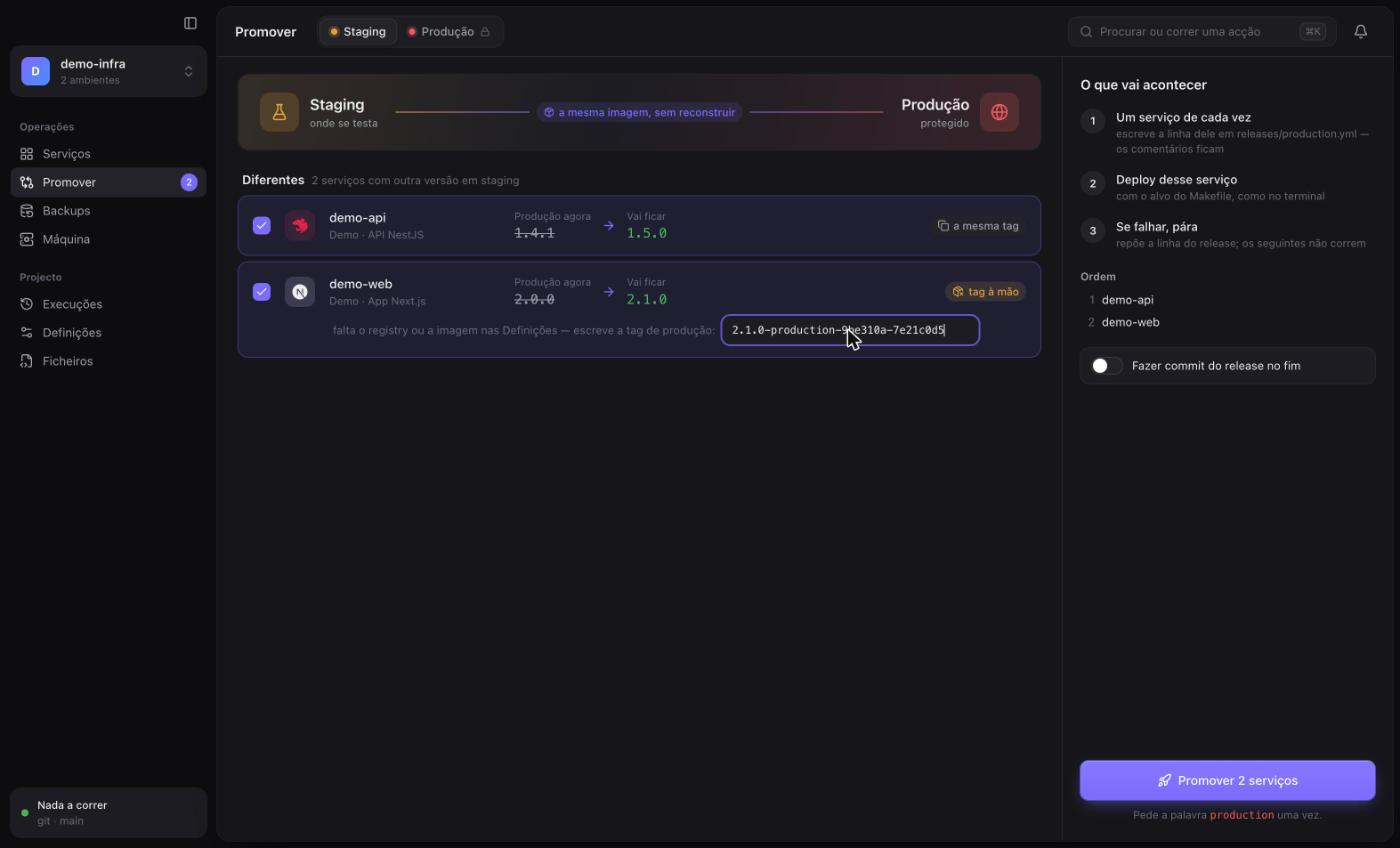
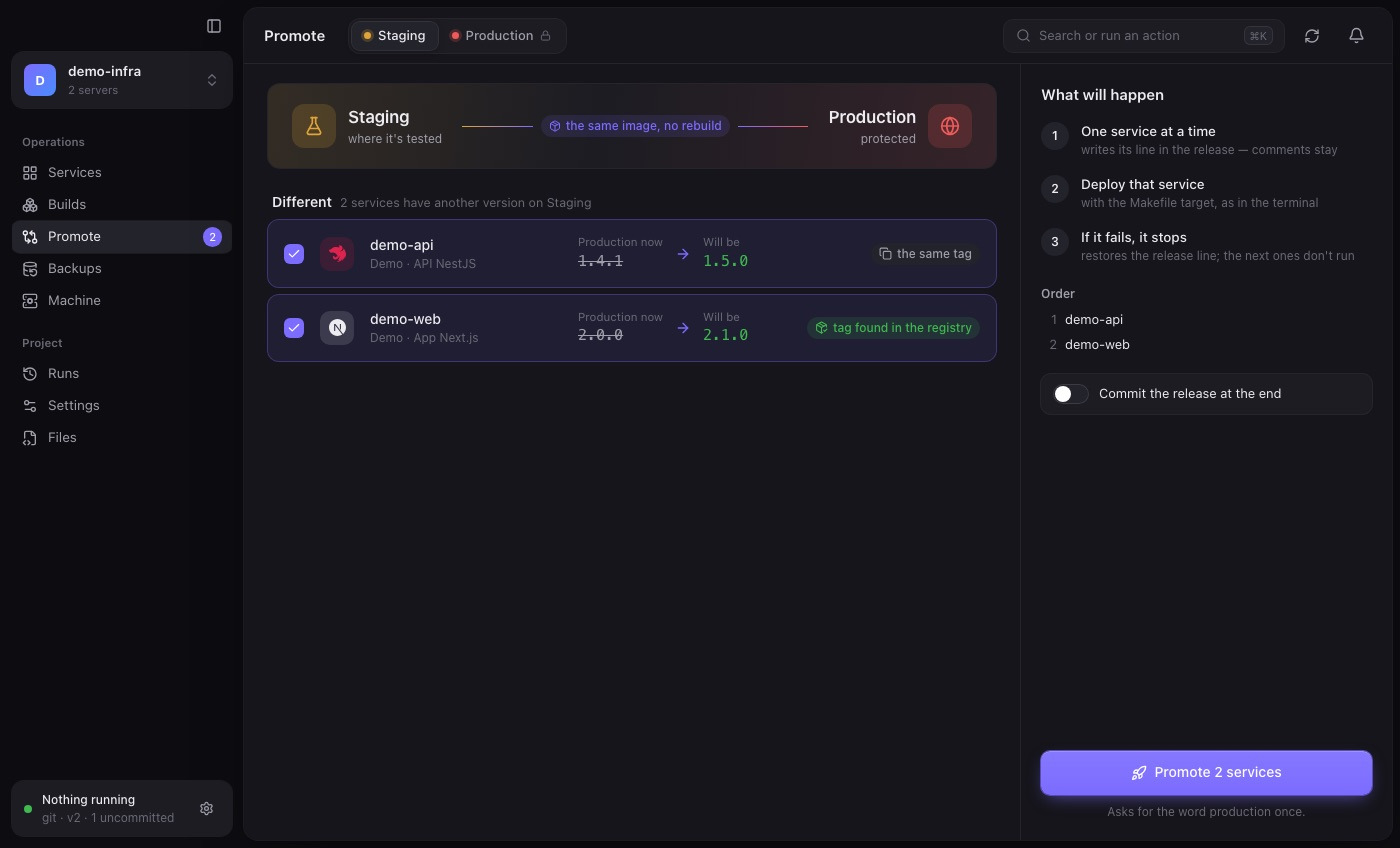
docs: readme for builds, deploy with a version, servers and products, themes and the skill

diff --git a/README.md b/README.md
@@ -5,15 +5,16 @@
 [![macOS](https://img.shields.io/badge/macOS-Apple_Silicon-000000?style=for-the-badge&logo=apple&logoColor=white)](https://github.com/mariocosttaa/ansible-mario/releases) [![Ansible](https://img.shields.io/badge/Ansible-tested_on_core_2.21-EE0000?style=for-the-badge&logo=ansible&logoColor=white)](https://docs.ansible.com) [![Tauri](https://img.shields.io/badge/Tauri-2-24C8DB?style=for-the-badge&logo=tauri&logoColor=white)](https://tauri.app) [![Rust](https://img.shields.io/badge/Rust-backend-000000?style=for-the-badge&logo=rust&logoColor=white)](https://www.rust-lang.org) [![React](https://img.shields.io/badge/React-19-61DAFB?style=for-the-badge&logo=react&logoColor=black)](https://react.dev) [![Tailwind](https://img.shields.io/badge/Tailwind-4-06B6D4?style=for-the-badge&logo=tailwindcss&logoColor=white)](https://tailwindcss.com) [![License](https://img.shields.io/badge/License-MIT-green?style=for-the-badge)](LICENSE)
 
 Ansible Mario turns an Ansible repository into an operations app:
-- **Services:** every service of every product, with the version running in each environment.
-- **Actions:** buttons to deploy, migrate, seed or close a service for maintenance.
+- **Servers and products:** pick a server at the top (Staging, Production); see the products that live on it and every service's version.
+- **Actions:** buttons to deploy, migrate, seed, close a service for maintenance and reopen it.
+- **Builds:** the latest images in your registry (or commits of your app repo), with dates, and where each one is installed. Deploy any of them.
 - **Promotion:** move the image staging tested to production, one service at a time.
 - **Backups and machines:** restore, provision and verify.
 - **Live runs:** every run shows its progress and full log.
 
 Nothing is reimplemented. Every button runs your own Makefile target or playbook through the real `make` / `ansible-playbook`, with your `ansible.cfg`, vault and callbacks.
 
-> The interface is in European Portuguese.
+> The interface is in English by default, with European Portuguese available. It follows the system theme, or stays light or dark.
 
 ## Preview
 
@@ -26,10 +27,19 @@ Nothing is reimplemented. Every button runs your own Makefile target or playbook
 | ![Running](docs/screenshots/v2-running.jpg) | ![Log](docs/screenshots/v2-log.jpg) |
 | *A floating card shows the current step, taken from the `TASK [...]` lines.* | *The steps with timings, plus the colour log. You can cancel from here.* |
 
+| Deploy: choose the mode, then the version | Builds |
+| --- | --- |
+| ![Deploy](docs/screenshots/v2-deploy.jpg) | ![Builds](docs/screenshots/v2-builds.jpg) |
+| *Deploy, deploy + migrations or seed, then any build from the registry. The release line is written first and put back if the deploy fails.* | *Recent builds with date, commit and size, and which server runs each one.* |
+
 | Promote staging → production | Production |
 | --- | --- |
 | ![Promote](docs/screenshots/v2-promote.jpg) | ![Production](docs/screenshots/v2-production.jpg) |
 | *The same image, one service at a time. Per-environment tags come from the registry, or you type them in.* | *Protected: every action asks you to type `production`.* |
+
+![Light mode](docs/screenshots/v2-light.jpg)
+
+*Light mode. Auto follows the system.*
 
 ![Template](docs/screenshots/v2-wizard.jpg)
 
@@ -59,14 +69,32 @@ The app is driven by an **`ansible-mario.json`** at the root of your infra repo.
 
 The schema is in [`schema/v2.json`](schema/v2.json), so editors autocomplete and validate the file.
 
+What the file describes, and what you can change in **Settings** (or the JSON tab):
+
+| Part | What it is |
+| --- | --- |
+| `environments` | The **servers**: inventory, release file, colour, and whether actions there ask you to type the name. |
+| `products` | Your applications. `environments` lists the servers each one exists on; `placements` puts a product on another product's server with its own `{env}` token, inventory and release (a test stack on the production machine). |
+| `services` | The parts of a product. Each has its buttons (`deploy`, `migrate`, `seed`, `maintenanceOn`, `maintenanceOff`), each a Makefile target or a playbook, and its version key. `includesDeploy` marks a migrate or seed that already redeploys. |
+| `versions` | Where the deploy picker gets versions from: `registry` tags (read with a `tagFormat` such as `{version}-{env}-{commit}-{build}`), `git` commits of your app repo, or `none`. |
+| `operations` | Backups, provisioning, observability and checks, grouped. `destructive` asks for the typed word everywhere. |
+| `variables` | Settings the app edits in your YAML: on/off flags, texts, and secrets (Discord webhooks, tokens) written through the vault and never shown. |
+
+### Let an agent write it
+
+[`skills/ansible-mario-json`](skills/ansible-mario-json/SKILL.md) is a skill for coding agents (Claude Code and others). It reads your Makefile, inventories and releases and writes or fixes `ansible-mario.json` without inventing targets or files. Copy it to `.claude/skills/` in your infra repo, or to `~/.claude/skills/`, and ask: *"create the ansible-mario.json for this project"*.
+
 ## Features
 
-- **Services:** one row per app service, with its tech icon and version path, and a status: *Ready to promote*, *Stable*, *Closed*, *Failed* or *Running*. Postgres, Redis and nginx sit in a compact infra strip.
+- **Servers at the top, products in the sidebar:** each server shows only the products that exist on it.
+- **Services:** one row per app service, with its tech icon and the version on the chosen server, and a status: *Ready to promote*, *Behind*, *Ahead*, *Stable*, *Closed*, *Failed* or *Running*. Postgres, Redis and nginx sit in a compact infra strip.
 - **Inspector:**
-  - versions in both environments;
-  - a big **Deploy** action, plus **Migrate**, **Seed** and **Maintenance on/off**;
+  - the version on this server, and a line about the other one;
+  - a big **Deploy** action, plus **Migrate**, **Seed**, **Close to the public** and **Reopen**;
   - **Previous version**, which picks an older value from the release file's git history and redeploys it;
   - recent activity.
+- **Deploy with a version:** choose *Deploy*, *Deploy + migrations* or *Deploy + migrations + seed* (or *Deploy, then migrate* when your migrate target doesn't redeploy), then the version: any recent build, a commit, or a tag you type. The app writes that service's release line, runs the steps in order, and puts the line back if the deploy fails. It can commit the release file afterwards.
+- **Builds:** the most recent images of each service, newest first, with date, size and commit from the image's OCI labels (or from the tag format), and badges for the servers running each one. Results are cached per tag; the registry is only asked when you open the page or press Refresh.
 - **Promote:**
   - Compares the release files and copies the tag staging tested, one service at a time: it writes that service's line, deploys, and on failure puts the line back and stops. Your release file never claims a version that isn't running.
   - Apps whose tag carries the environment (`-staging-`) are looked up in the registry, using your `docker login` credentials (config.json or Keychain). If the registry can't answer, you type the tag in.
@@ -76,6 +104,9 @@ The schema is in [`schema/v2.json`](schema/v2.json), so editors autocomplete and
   - open or close apps to users, using the state in your inventory;
   - observability, and read-only checks.
 - **Runs:** history with filters, the full log of every run, *copy command* and *run again*.
+- **Refresh:** a button in the toolbar, plus automatic refreshes when the app opens, when the window gets focus, and every 3 minutes (configurable, or off). It re-reads releases, run history and the inventory. It never connects to the servers.
+- **Settings for everything:** servers, products, buttons, operations, version sources and variables, with searchable selects and live checks against the Makefile. Notification switches and webhooks (for example `deploy_notify_enabled` and a Discord URL in the vault) are edited in place.
+- **Preferences:** language (English or Português), theme (Auto, Light, Dark), refresh interval.
 - **⌘K:** run any action or jump anywhere.
 - **Files (advanced):** the v1 editor is still here, with YAML validation, `ansible-lint`, the vault edited in memory and free-form runs.
 
@@ -137,7 +168,7 @@ cd src-tauri && cargo test --lib
 What the tests cover:
 - the template parser;
 - release rewrites that keep comments;
-- registry tag matching;
+- registry tag matching and tag-format parsing;
 - a real vault round trip;
 - real `ansible-playbook` runs on localhost, including streaming and cancelling.
 
@@ -154,12 +185,13 @@ ANSIBLE_MARIO_FIXTURES=~/infra/a:~/infra/b cargo test --lib -- --nocapture templ
 | `src-tauri/src/manifest.rs` | The `ansible-mario.json` model, and validation against the Makefile. |
 | `src-tauri/src/template.rs` | The Makefile-convention and playbooks templates, and the compatibility report. |
 | `src-tauri/src/releases.rs` | Reads and rewrites `releases/*.yml` line by line, keeping comments. |
-| `src-tauri/src/registry.rs` | Lists Docker registry tags with `docker login` credentials. |
+| `src-tauri/src/registry.rs` | Registry tags and build details (date, size, OCI labels) with `docker login` credentials; tag-format parsing. |
 | `src-tauri/src/ops.rs` | Maintenance flags from the inventory, and release history and commits from git. |
 | `src-tauri/src/runner.rs` | Runs in a process group: streaming, cancelling, history, one run per environment. |
-| `src/v2/` | The app: shell, pages (Services, Promote, Backups, Machine, Runs, Settings), ⌘K and the run views. |
+| `src/v2/` | The app: shell, pages (Services, Builds, Promote, Backups, Machine, Runs, Settings), the deploy dialog, ⌘K, the run views, and the English/Portuguese strings. |
 | `src/legacy/` | The v1 editor, now *Files (advanced)*. |
 | `schema/v2.json` | JSON schema for `ansible-mario.json`. |
+| `skills/ansible-mario-json` | A skill that helps coding agents write `ansible-mario.json` for a project. |
 | `examples/demo-infra` | A demo project that runs on localhost. |
 
 ## Limitations
